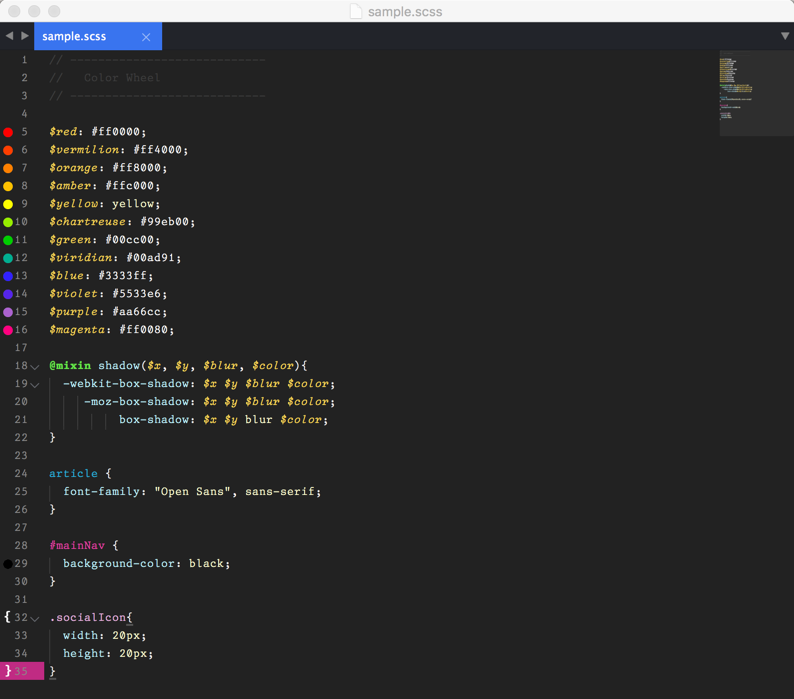
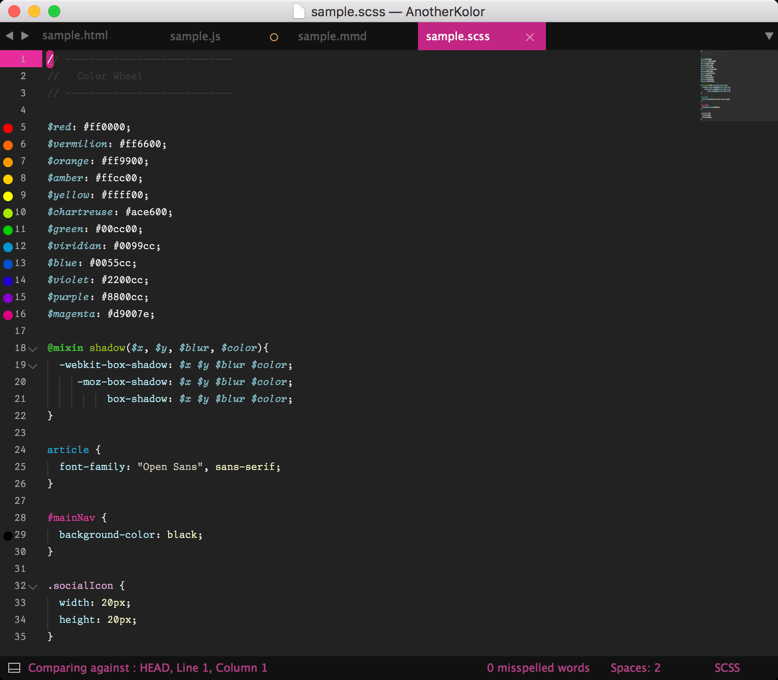
Update Light Theme Coloring and Update Screenshots
Modifies hard to read colors in the Light theme for CSS/Sass and JSON.
Adds and updates screenshots. Adds content to the README.

diff --git a/README.md b/README.md
@@ -8,16 +8,33 @@ Another Kolor is a color scheme for web developers with code coloring configured
 * Markdown
 * Ruby and Rails
 
-![Another Kolor (Dark) theme - HTML](screenshots/html_dark.png)
+## HTML
 
 HTML code coloring for those who like their angle brackets and tag names to be the same color.
 
-![Another Kolor (Dark) theme - CSS and Sass](screenshots/css_sass_dark.png)
+![Another Kolor (Dark) theme - HTML](screenshots/html_dark.png)
+![Another Kolor (Light) theme - HTML](screenshots/html_light.png)
+
+## CSS and Sass
 
 CSS and Sass code coloring to highlight IDs, classes and elements with vibrant colors so they stand out in the editor and minimap. This is helpful if you calculate specificity points for style rules.
 
-![Another Kolor (Dark) theme - JavaScript](screenshots/javascript_dark.png)
+![Another Kolor (Dark) theme - CSS and Sass](screenshots/css_sass_dark.png)
+![Another Kolor (Light) theme - CSS and Sass](screenshots/css_sass_light.png)
 
+## JavaScript
+
+The parentheses associated with function calls are colored green to distinguish them from function definitions.
+
+
+![Another Kolor (Dark) theme - JavaScript](screenshots/javascript_dark.png)
+![Another Kolor (Light) theme - JavaScript](screenshots/javascript_light.png)
+
+## Markdown
+
+Vibrant colors distinguish between lists, blockquotes, links and inline code - helpful for minimap navigation.
+
+![Another Kolor (Dark) theme - Markdown](screenshots/markdown_dark.png)
 ![Another Kolor (Light) theme - Markdown](screenshots/markdown_light.png)
 
 This is a BETA color scheme that I continue to edit and tweak as I use it over time. 
